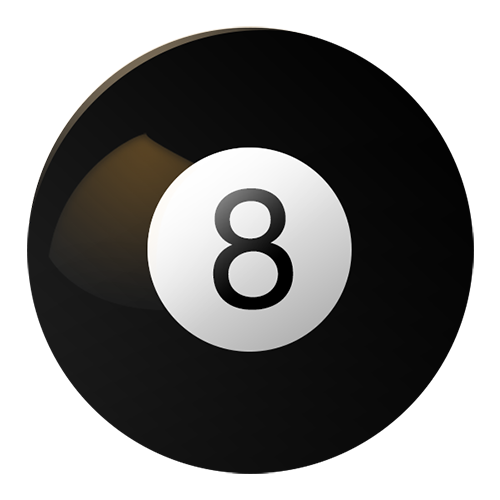
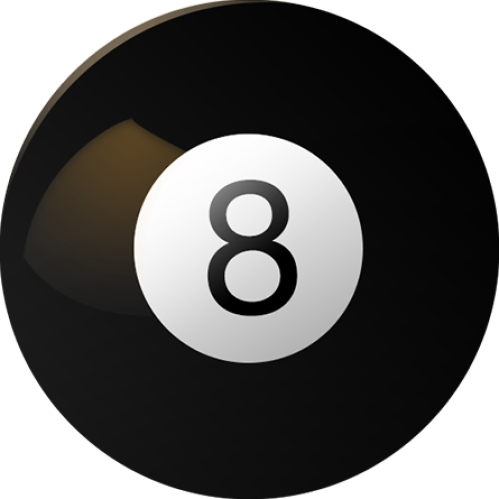
Updated source to fix the pixelation of the images.

Changed region(s): [[0.0, 0.0, 1.0, 1.0], [0.2405, 0.2405, 0.7515, 0.7515], [0.3908, 0.3607, 0.6012, 0.6613]]

diff --git a/index.html b/index.html
@@ -13,7 +13,7 @@
             <h2>Ask your question, concentrate, then click the answer button:</h2>
 			<br>
             <class="row">
-                <img id="ball"  alt="Magic 8 Ball" src="./images/8ball.png">
+                <img id="ball"  alt="Magic 8 Ball" src="./images/8ball.png" class="circle">
             <br>
             <button class="btn btn-primary" onClick="shake()">Answer</button>
 	    </div>       

diff --git a/style.css b/style.css
@@ -22,9 +22,7 @@
       color:white;
       font-family: 'Roboto Mono', monospace;
   }
-  img{
-      padding-left:2em;
-  }
+
   button{
       margin-top: 1em;
   }
@@ -43,4 +41,9 @@
       font-size: 2em;
       margin-top: 4em;
       margin-left:2em;
+  }
+  .circle{
+  border: 2px black;
+  box-shadow:0px 0px 0px 10px black inset;
+  border-radius: 50%;
   }
